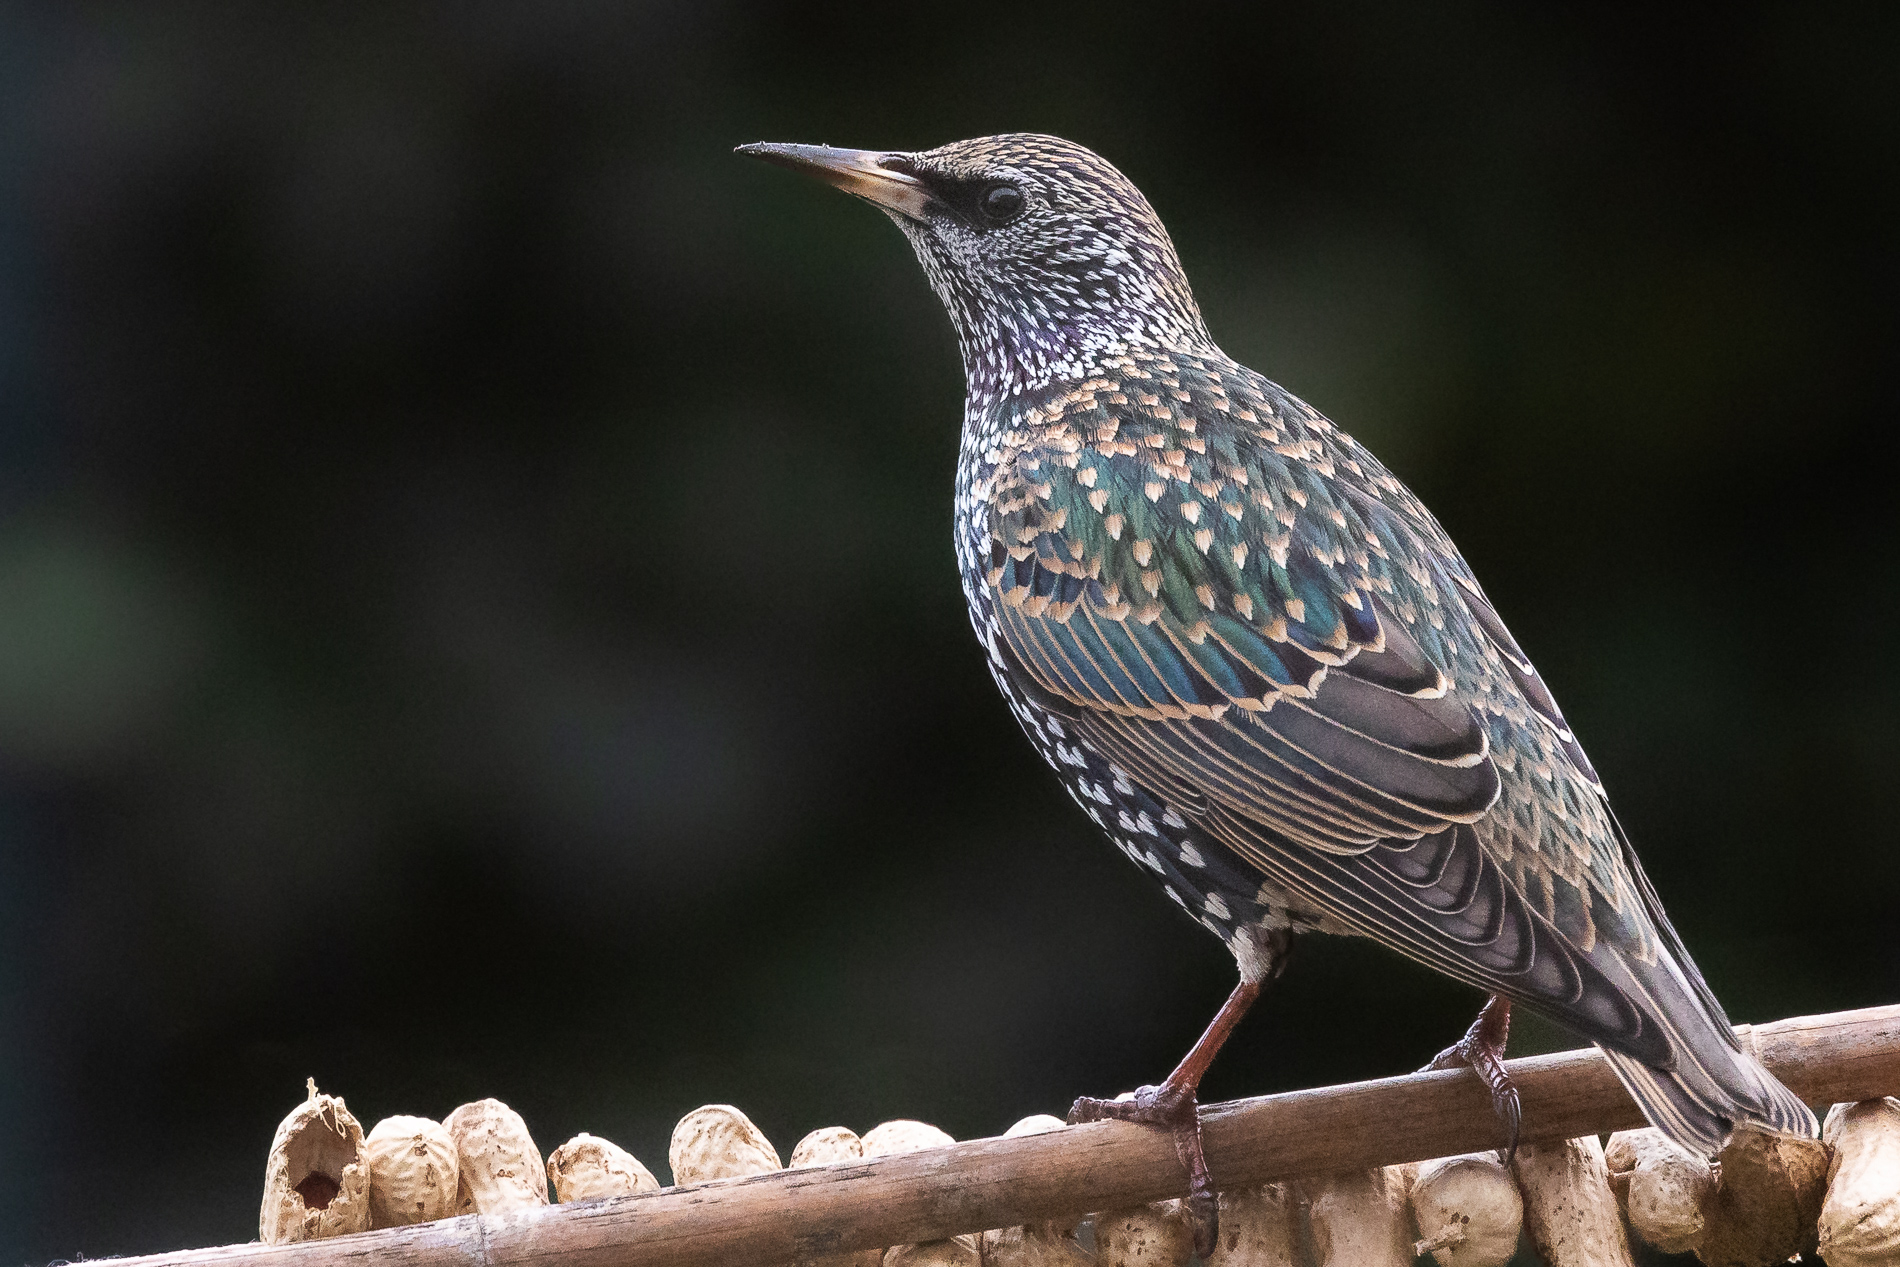
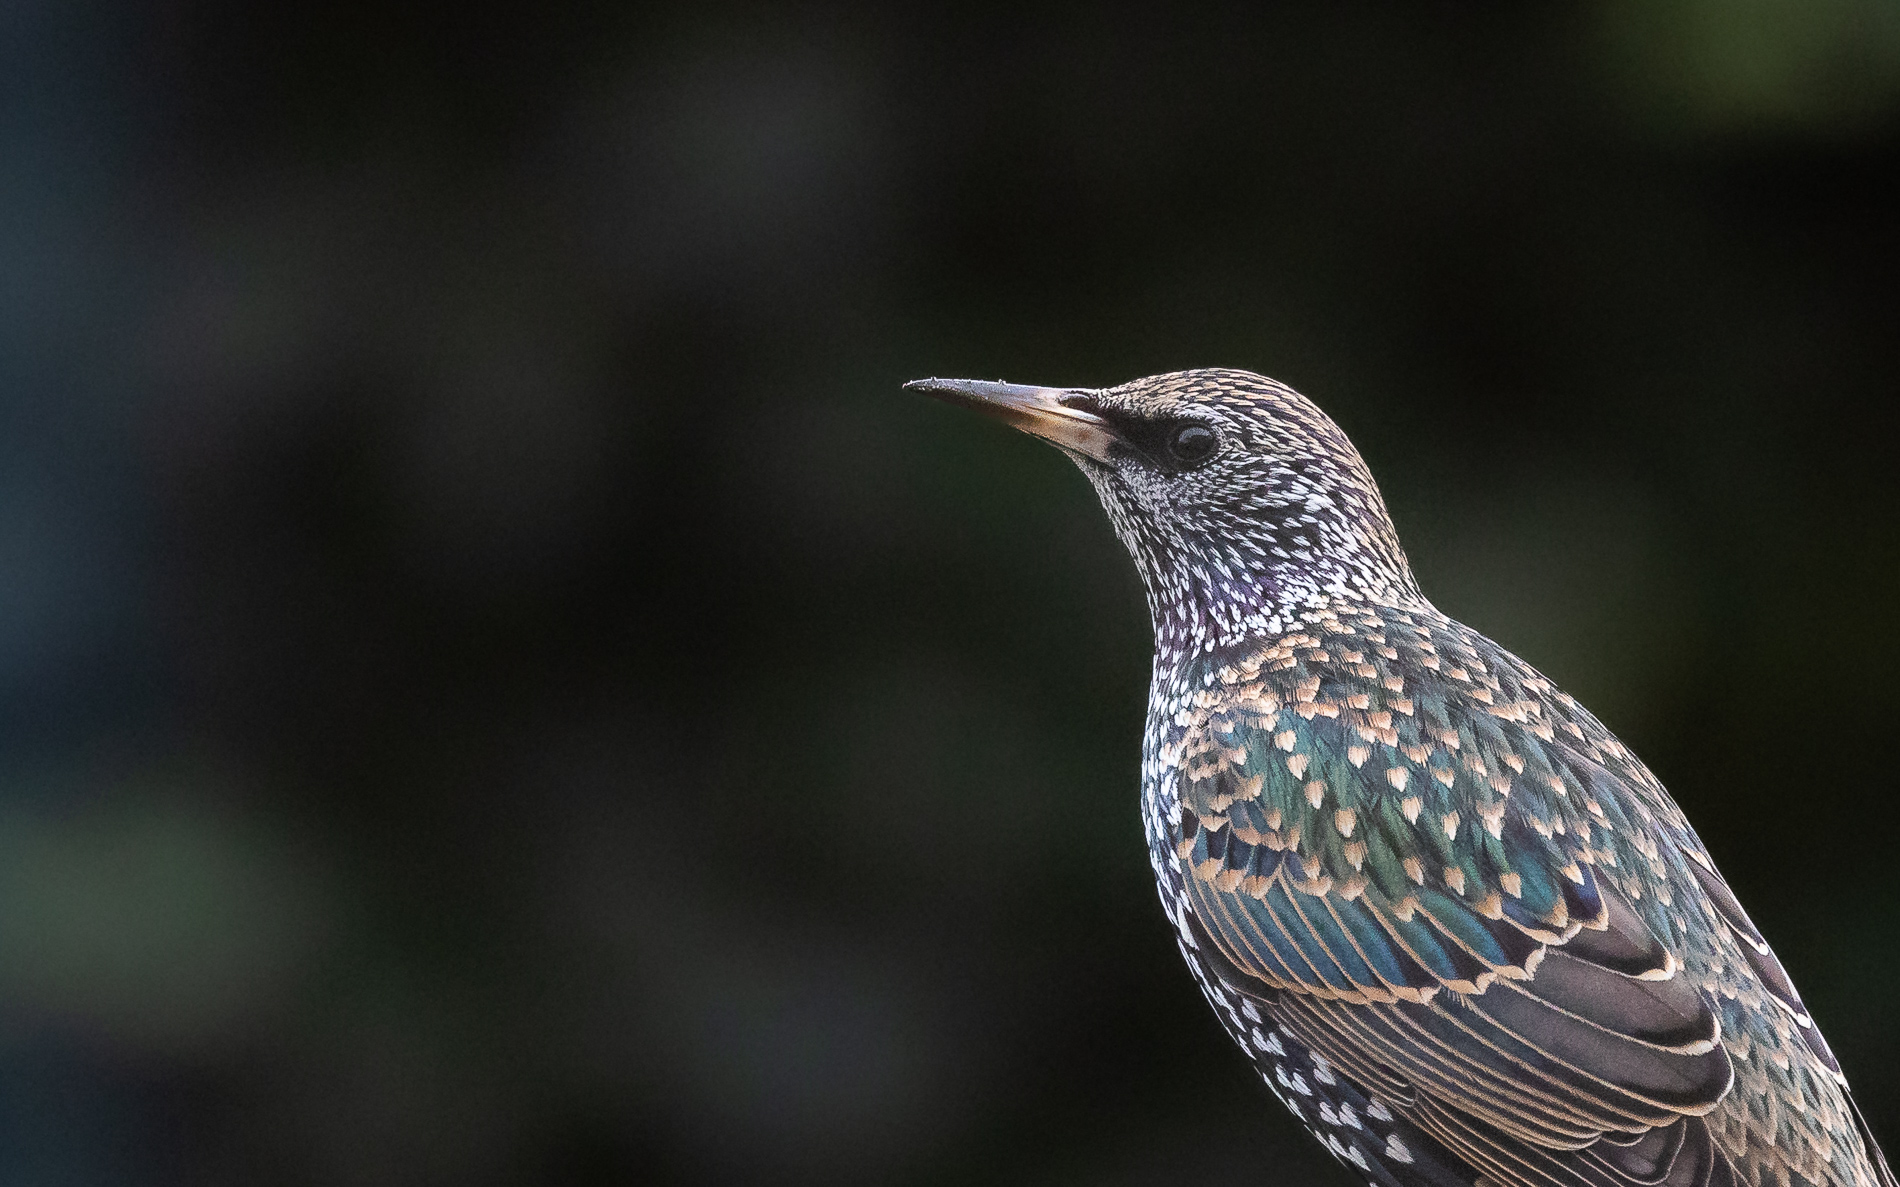
Added some Photos

diff --git a/assets/css/main.scss b/assets/css/main.scss
@@ -46,14 +46,15 @@ h1 a{
 
 .site-logo {
   border: 1px solid #51555d;
-  padding: 5px; 
-  margin-left: 1rem !important;
+  padding: 5px;  
   margin-right: 1rem !important;
 }
 
 .page, .archive {
   padding-right: 0px !important;
 }
+
+$caption-font-family: -apple-system, BlinkMacSystemFont, "Roboto", "Segoe UI", "Helvetica Neue", "Lucida Grande", Arial, sans-serif !default;
 
 @import "minimal-mistakes/skins/{{ site.minimal_mistakes_skin | default: 'default' }}"; // skin
 @import "minimal-mistakes"; // main partials

diff --git a/index.html b/index.html
@@ -6,8 +6,8 @@ pagination:
   enabled: true
 excerpt: "This is a website for my research and personal teaching activities."
 header:
-  overlay_image: ./assets/images/Pole-star-by-Night-RobertDeVeen.jpg
+  overlay_image: ./assets/images/Bird-2024-Robert-de-Veen.jpg
   overlay_filter: 0.2
   caption: "Photo credit: [**Robert de Veen**](https://robertdeveen.com)"
-  og_image: .//assets/images/Robert-de-Veen-2022-Square.webp
+  og_image: ./assets/images/Robert-de-Veen-2022-Square.webp
 ---

diff --git a/_layouts/home.html b/_layouts/home.html
@@ -1,6 +1,5 @@
 ---
 layout: archive
-
 --- 
 
 {% if paginator %}

diff --git a/_posts/2024-01-24-Bicep-Linter-GitHub-Workflow.md b/_posts/2024-01-24-Bicep-Linter-GitHub-Workflow.md
@@ -2,6 +2,7 @@
 title: Lint your Bicep and Bicepparam files with GitHub Workflow
 date: 2024-01-24 00:00:00 +1000
 categories: Azure
+tagline: "Linters are a very powerfull tool to validate if your code is correct."
 tags:
   - Azure
   - Bicep
@@ -10,9 +11,10 @@ excerpt_separator: <!--more-->
 header:
   overlay_image: ./assets/images/Sparrow-2024-Robert-de-Veen.jpg
   caption: "Photo credit: [**Robert de Veen**](https://robertdeveen.com)"
+  show_overlay_excerpt: false
 ---
 
-Linters are a very powerfull tool to validate if your source code is correct. With the new `az bicep lint --file $file` command you can validate if your Bicep and Bicepparam files are correct. This command is available in the [Azure CLI](https://learn.microsoft.com/en-us/cli/azure/bicep?view=azure-cli-latest#az-bicep-lint) and can be used in a GitHub Action.
+Linters are a very powerfull tool to validate if your code is correct. With the new `az bicep lint --file $file` command you can validate if your Bicep and Bicepparam files are correct. This command is available in the [Azure CLI](https://learn.microsoft.com/en-us/cli/azure/bicep?view=azure-cli-latest#az-bicep-lint) and can be used in a GitHub Action.
 
 <!--more-->
 
